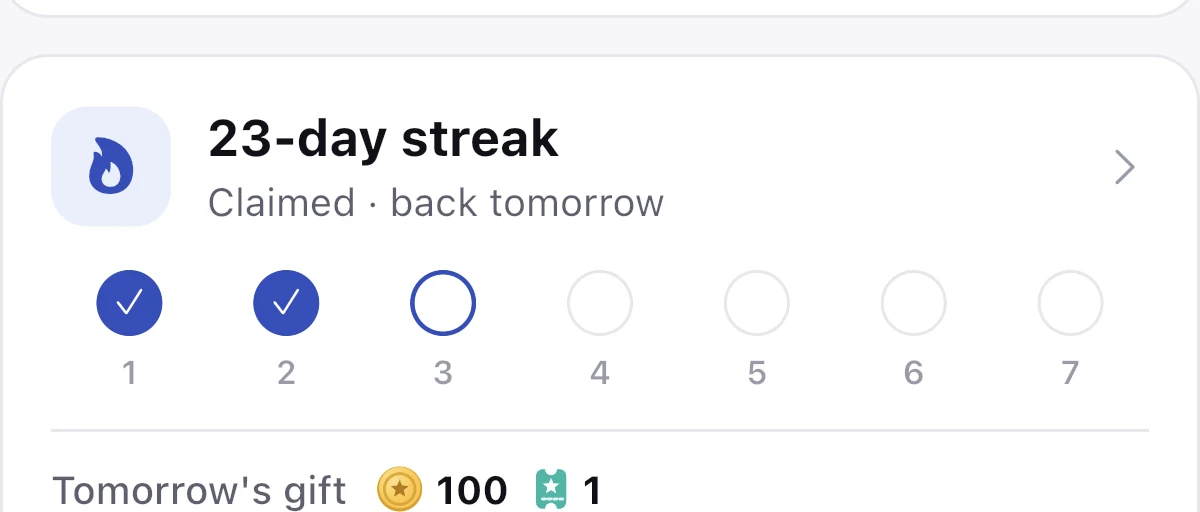
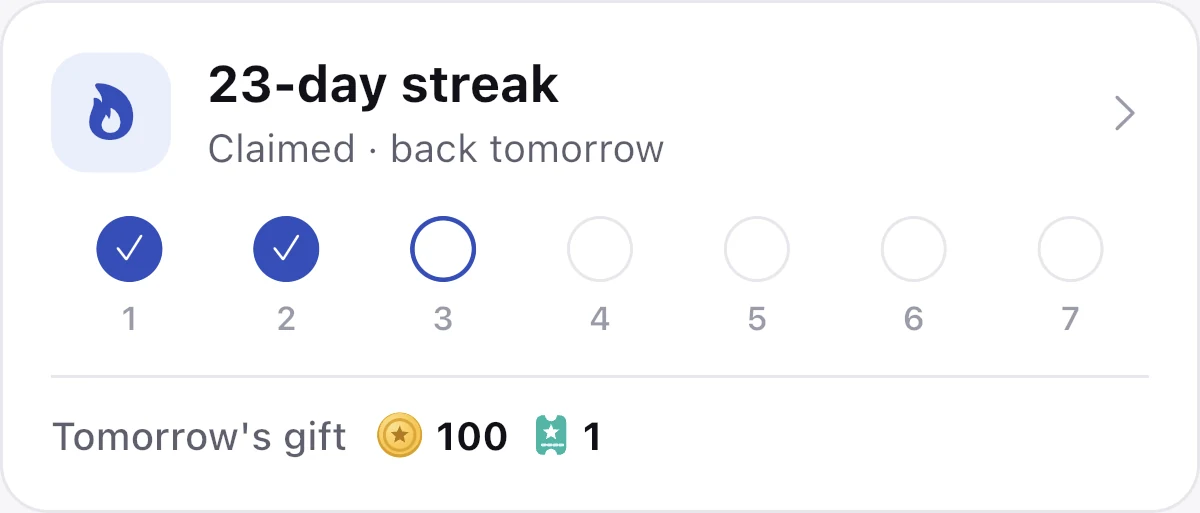
Home screens and the streak card from the new captures: the player is Mia, the streak card's new place

diff --git a/scripts/prepare-assets.py b/scripts/prepare-assets.py
@@ -38,7 +38,7 @@ PHONES = {
 BOARDS = {"cards": "06_mode_cards", "squares": "07_mode_squares", "triangles": "08_mode_triangles", "hexagons": "09_mode_hexagons",
           "together": "34_coop_clean"}
 # Cards lifted from a screen: name -> (scene, (l, t, r, b) in capture px, or "rect:<name>" the capture recorded).
-CROPS = {"streak": ("31_home_streak", (60, 1485, 1260, 1997))}
+CROPS = {"streak": ("31_home_streak", (60, 1539, 1260, 2052))}
 # Pictures the page plays with or shows: name -> (puzzle id, 3:4 crop?). From Carden's own Storage,
 # all public domain or CC0: three daily pictures (the widgets; 16 Oct, 26 Sep and 11 Sep 2026), Monet's chrysanthemums
 # (the Painting board, the same picture as the Painting capture), the Hölderlin Tower (the giant board, as in
